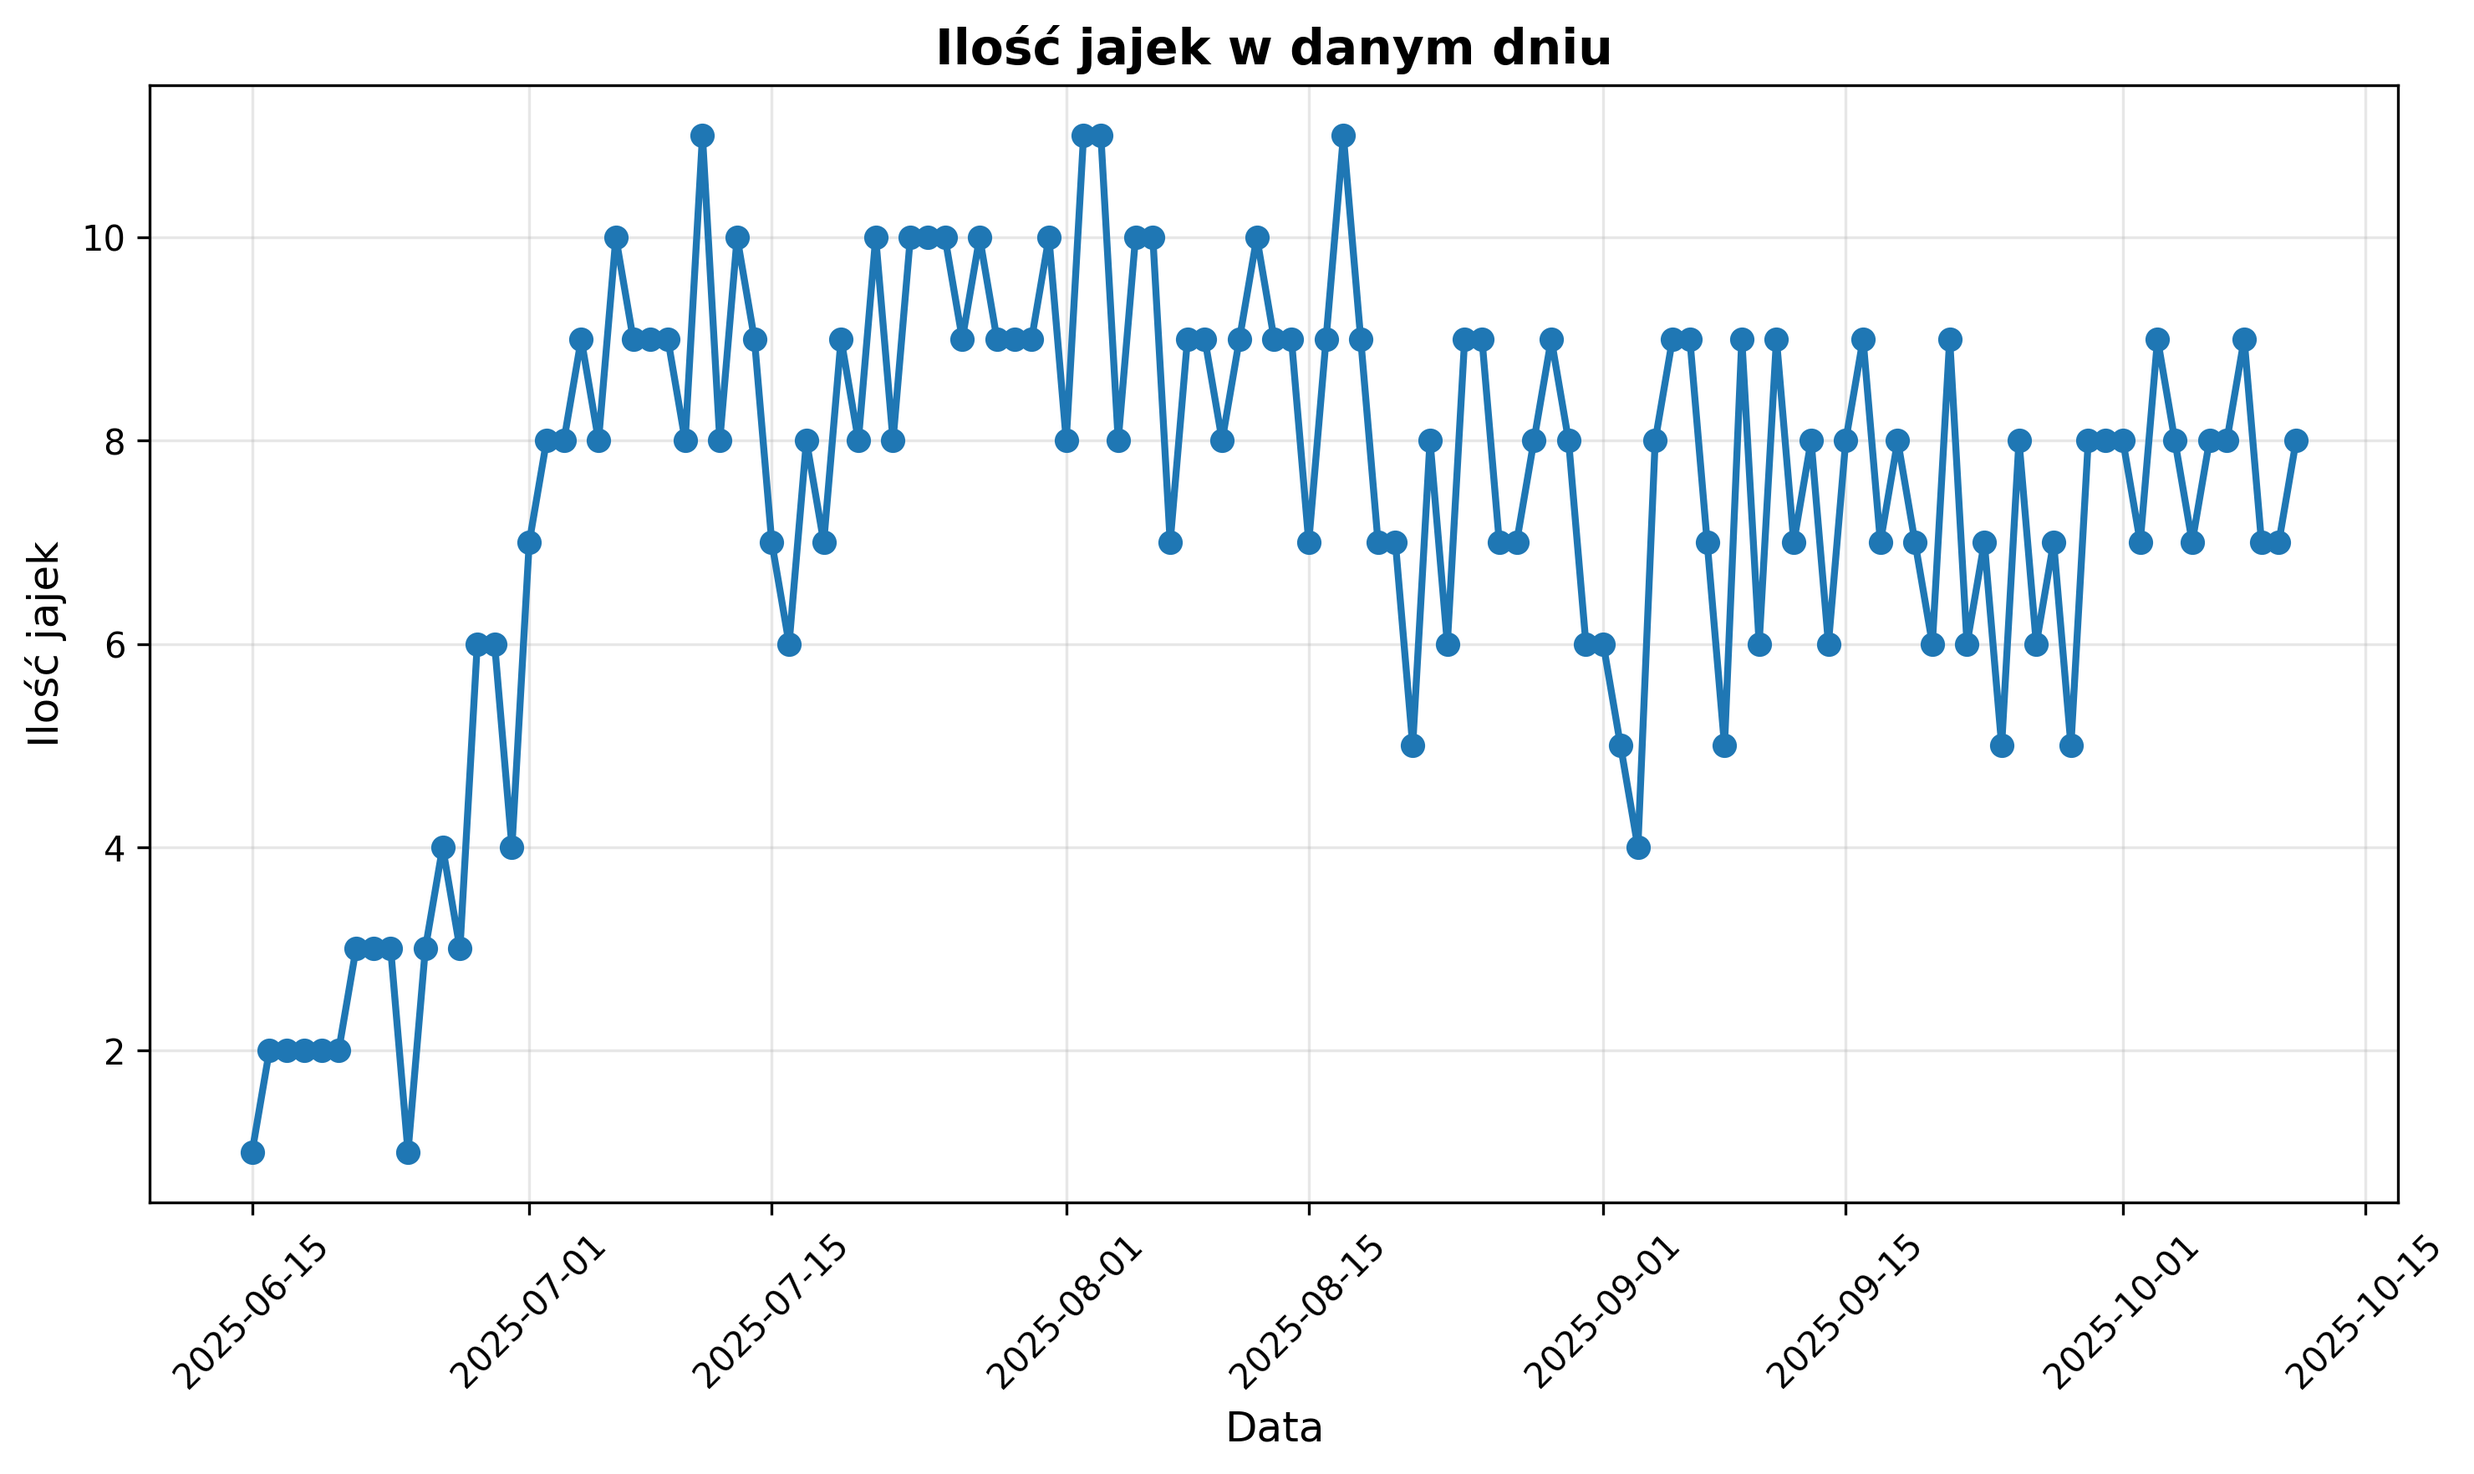
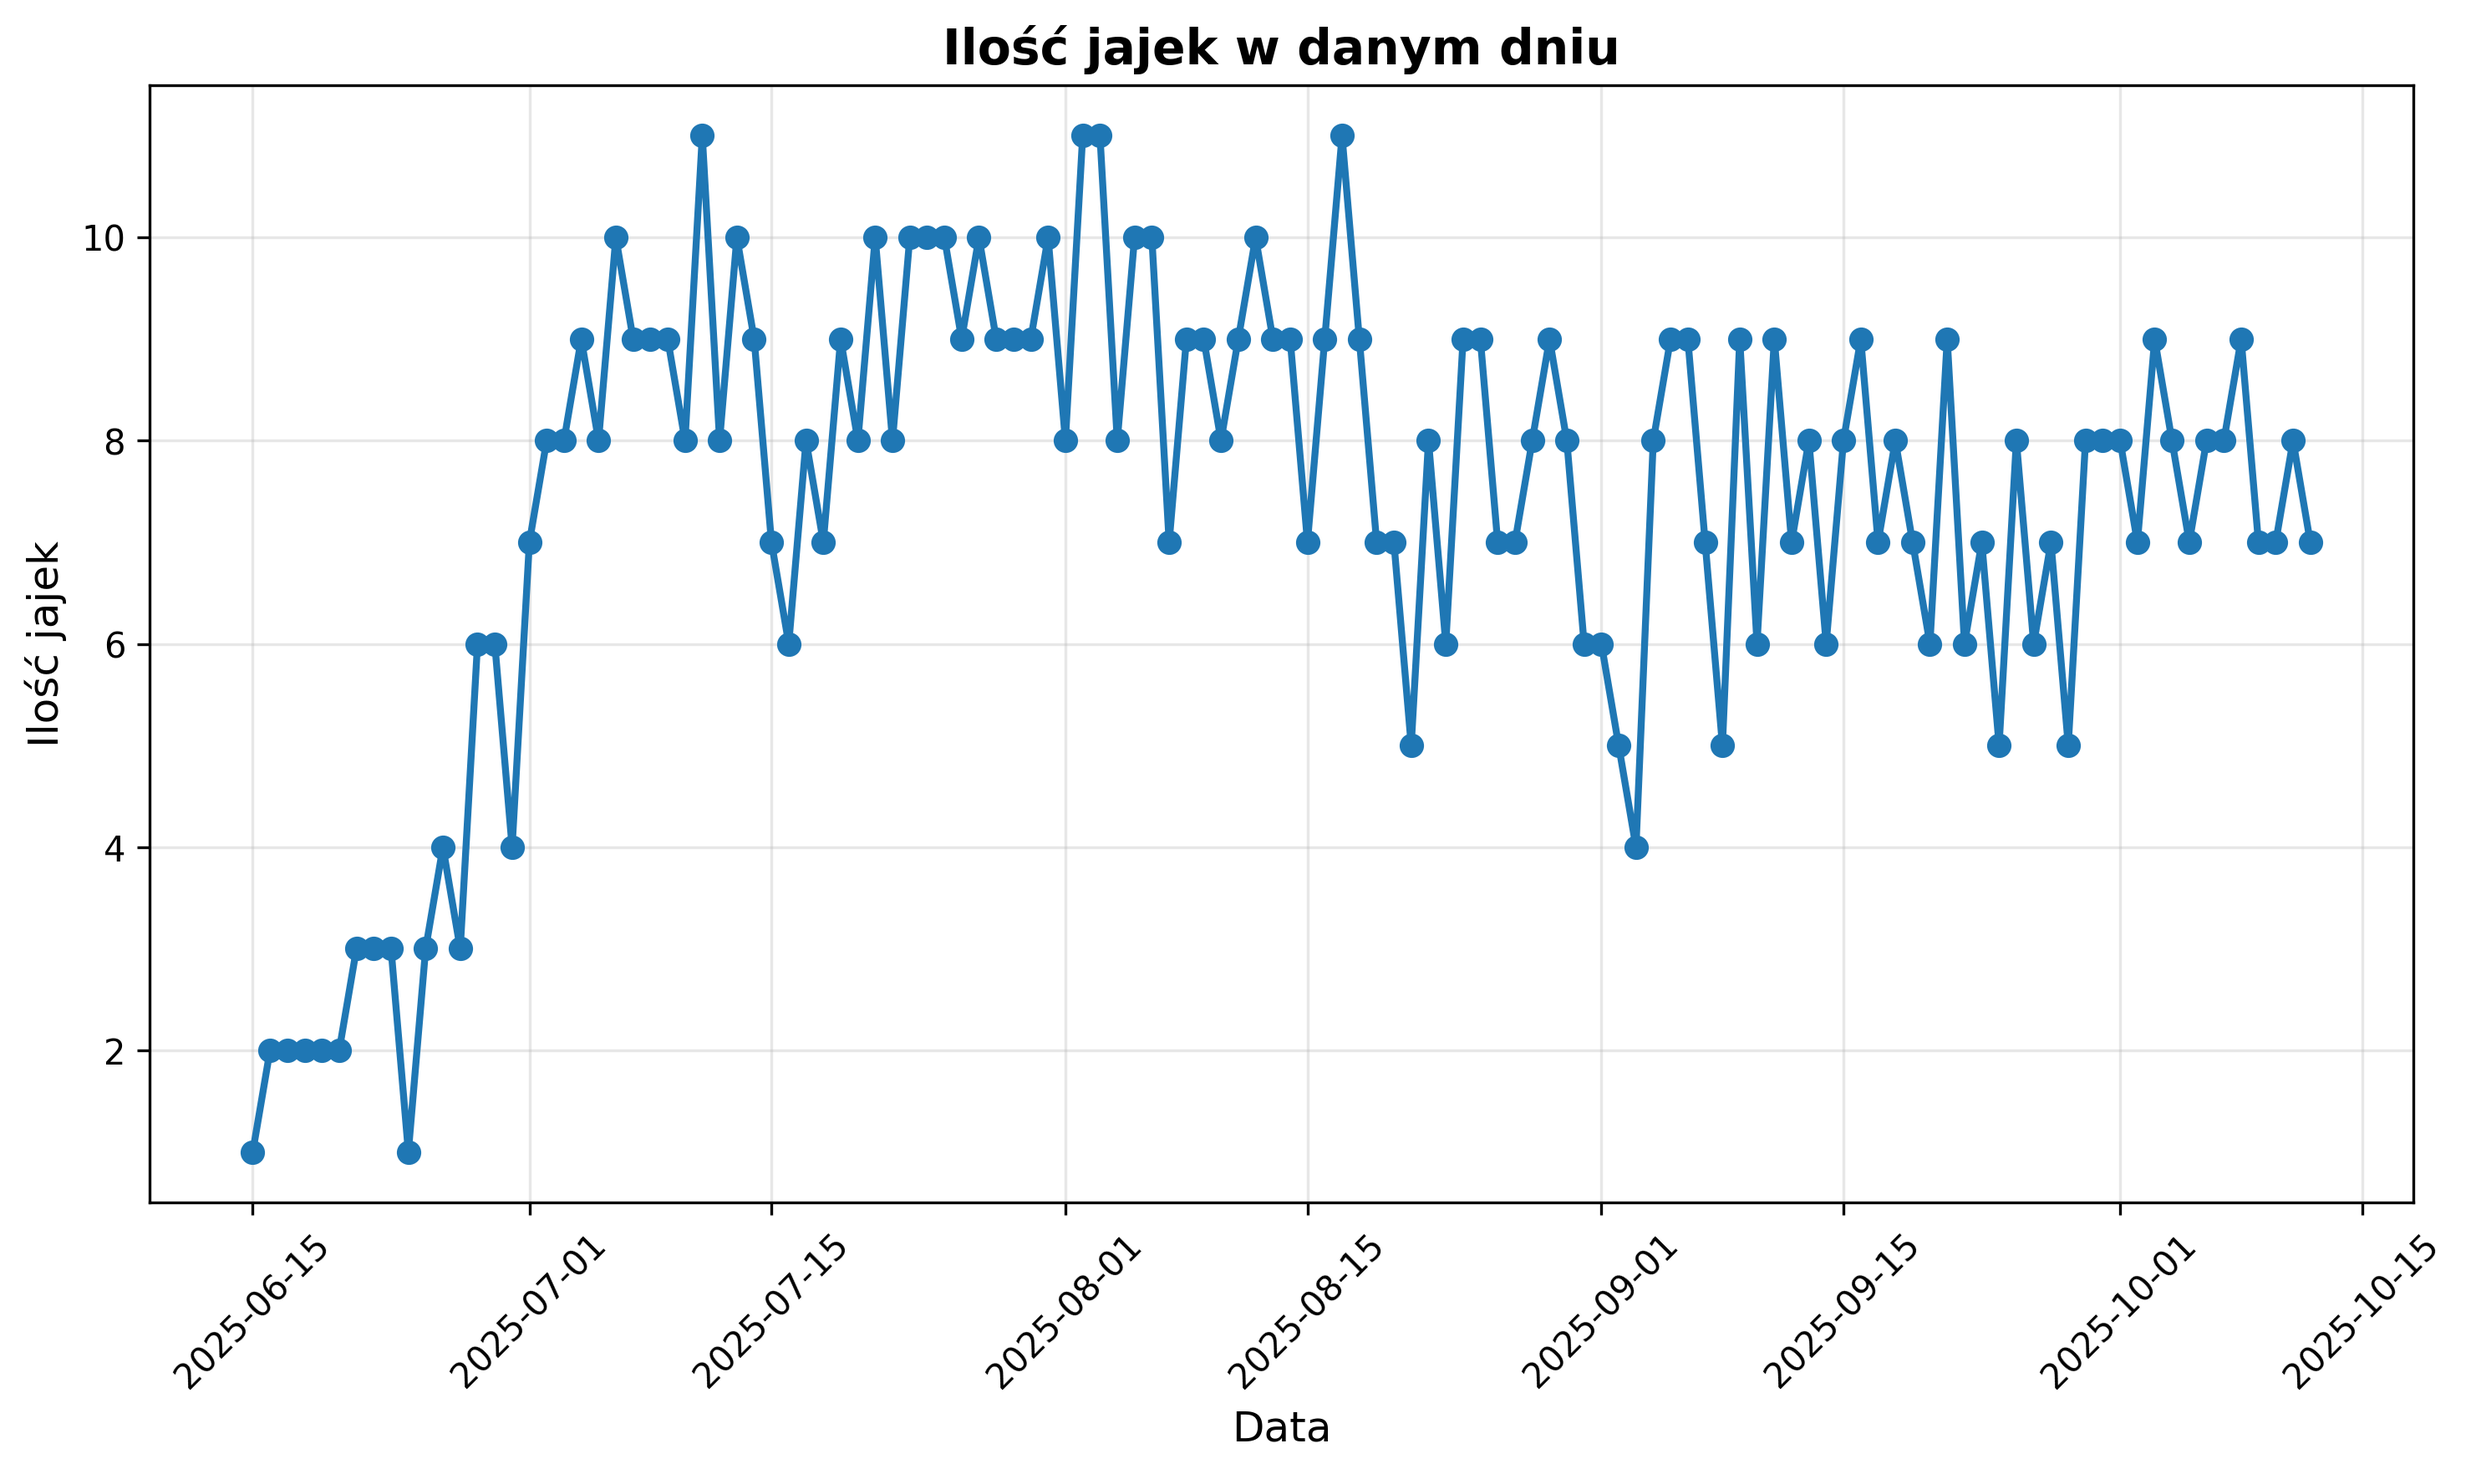
Chart update

diff --git a/jajka.html b/jajka.html
@@ -7,7 +7,7 @@
 </head>
 <body>
     <div style="font-size: 20px; font-style: italic;">Ostatnia aktualizacja:</div>
-    <div style="font-size: 18px; font-style: italic; color: red;">2025-10-11 19:34:42</div>
+    <div style="font-size: 18px; font-style: italic; color: red;">2025-10-12 11:34:40</div>
     <img src="img/chart.png" alt="" style="width: 100vw; height: 100vh; object-fit: contain; display: block; margin: 0 auto; position: absolute; top: 50%; left: 50%; transform: translate(-50%, -50%);">
 </body>
 </html>
